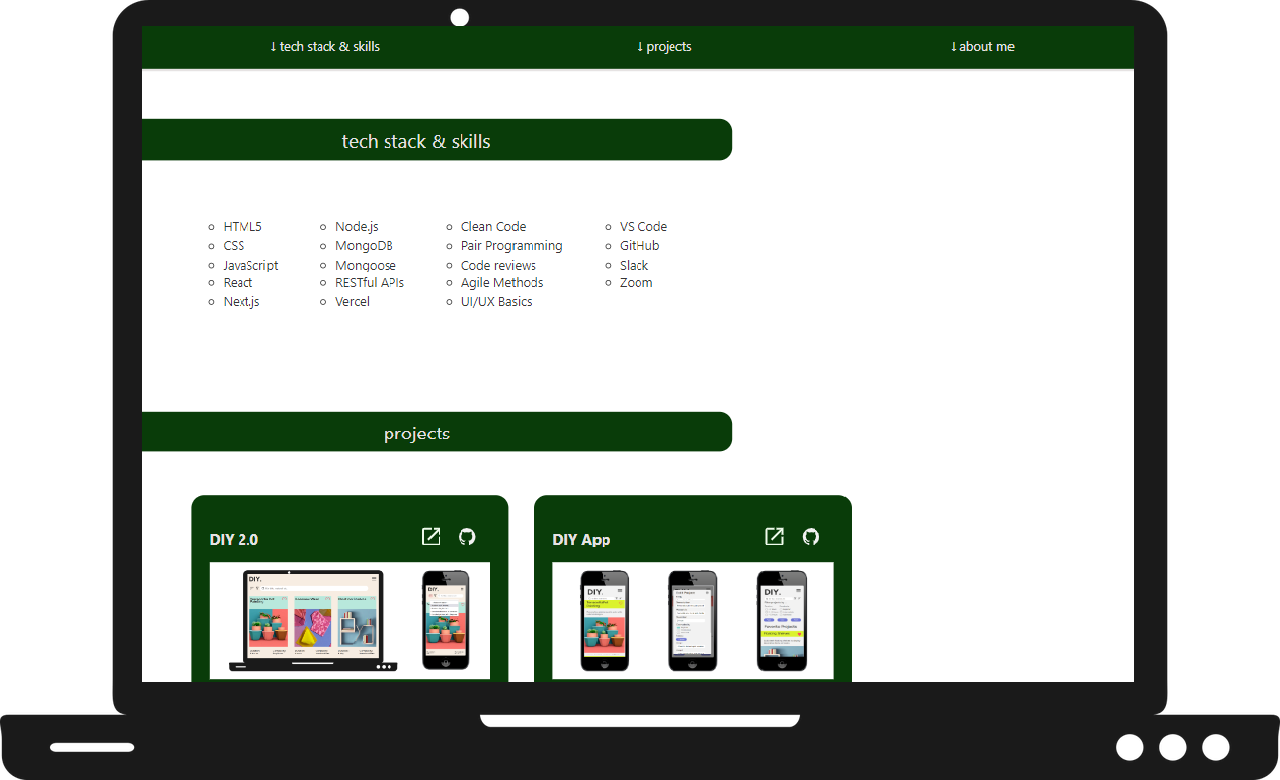
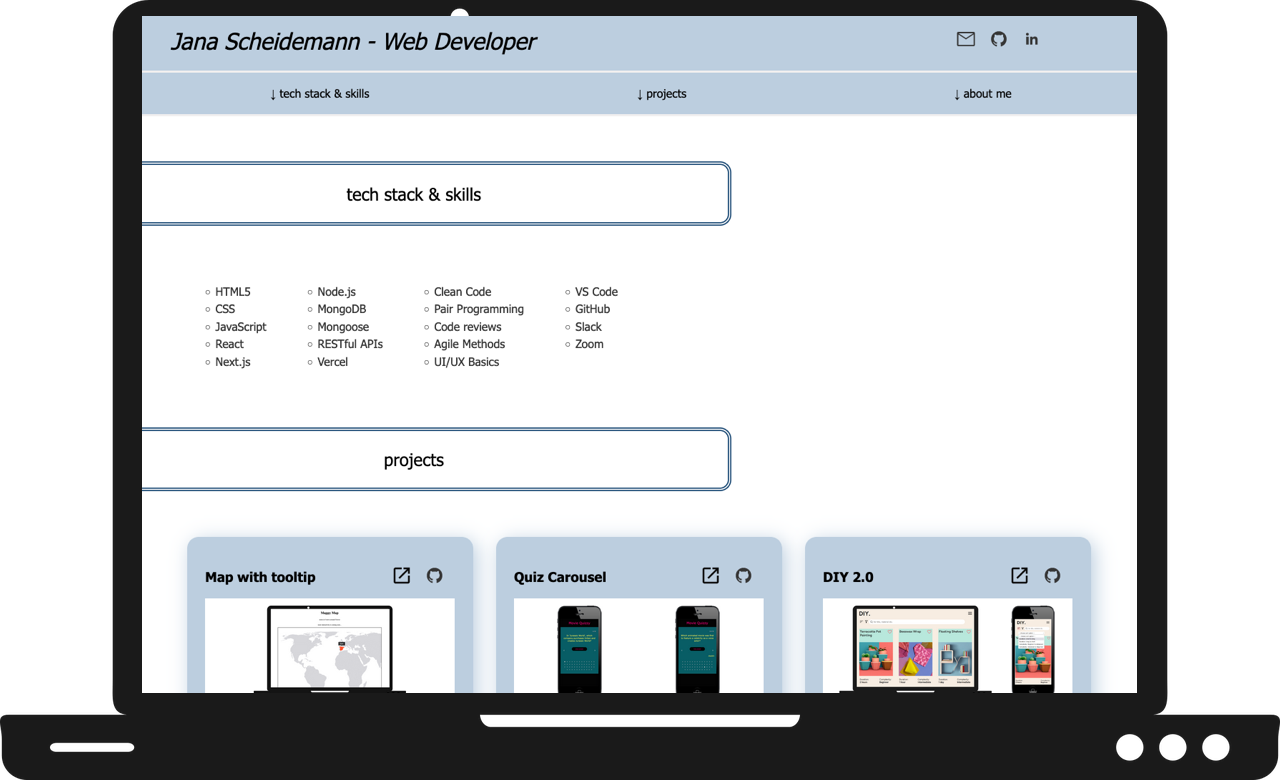
change color scheme

diff --git a/style.css b/style.css
@@ -5,9 +5,11 @@
 }
 
 :root {
-  --first: rgb(9, 60, 9);
-  --text-color: rgb(241, 239, 239);
-  --text-color-dark: rgb(53, 53, 53);
+  --first: #bccedf;
+  --second: #174672;
+  --third: #faeae9;
+  --text-color-dark: #353535;
+  --text-color-light: rgb(241, 239, 239);
   --border-radius: 1rem;
 }
 
@@ -32,7 +34,6 @@ h1 {
 }
 
 h2 {
-  color: var(--text-color-dark);
   text-align: center;
   padding: 5px;
   font-weight: 400;
@@ -56,12 +57,12 @@ nav {
   align-items: center;
   position: sticky;
   top: 0;
-  border-top: solid var(--text-color);
-  border-bottom: solid var(--text-color);
+  border-top: solid var(--text-color-light);
+  border-bottom: solid var(--text-color-light);
 }
 
 .h2-container {
-  border: thick double var(--first);
+  border: thick double var(--second);
   margin: 5% 0 5% -10%;
   width: 70%;
   border-radius: var(--border-radius);
@@ -82,7 +83,7 @@ article {
 
 a {
   text-decoration: none;
-  color: var(--text-color);
+  color: var(--text-color-dark);
 }
 
 a:hover {

diff --git a/index.html b/index.html
@@ -350,11 +350,6 @@
                 alt="preview of the website on a laptop"
                 class="project-img"
               />
-              <img
-                src="assets/img/portfolio_2.png"
-                alt="preview of the website on a smartphone"
-                class="project-img"
-              />
             </div>
             <p>
               My personal website presents my portfolio and gives some
